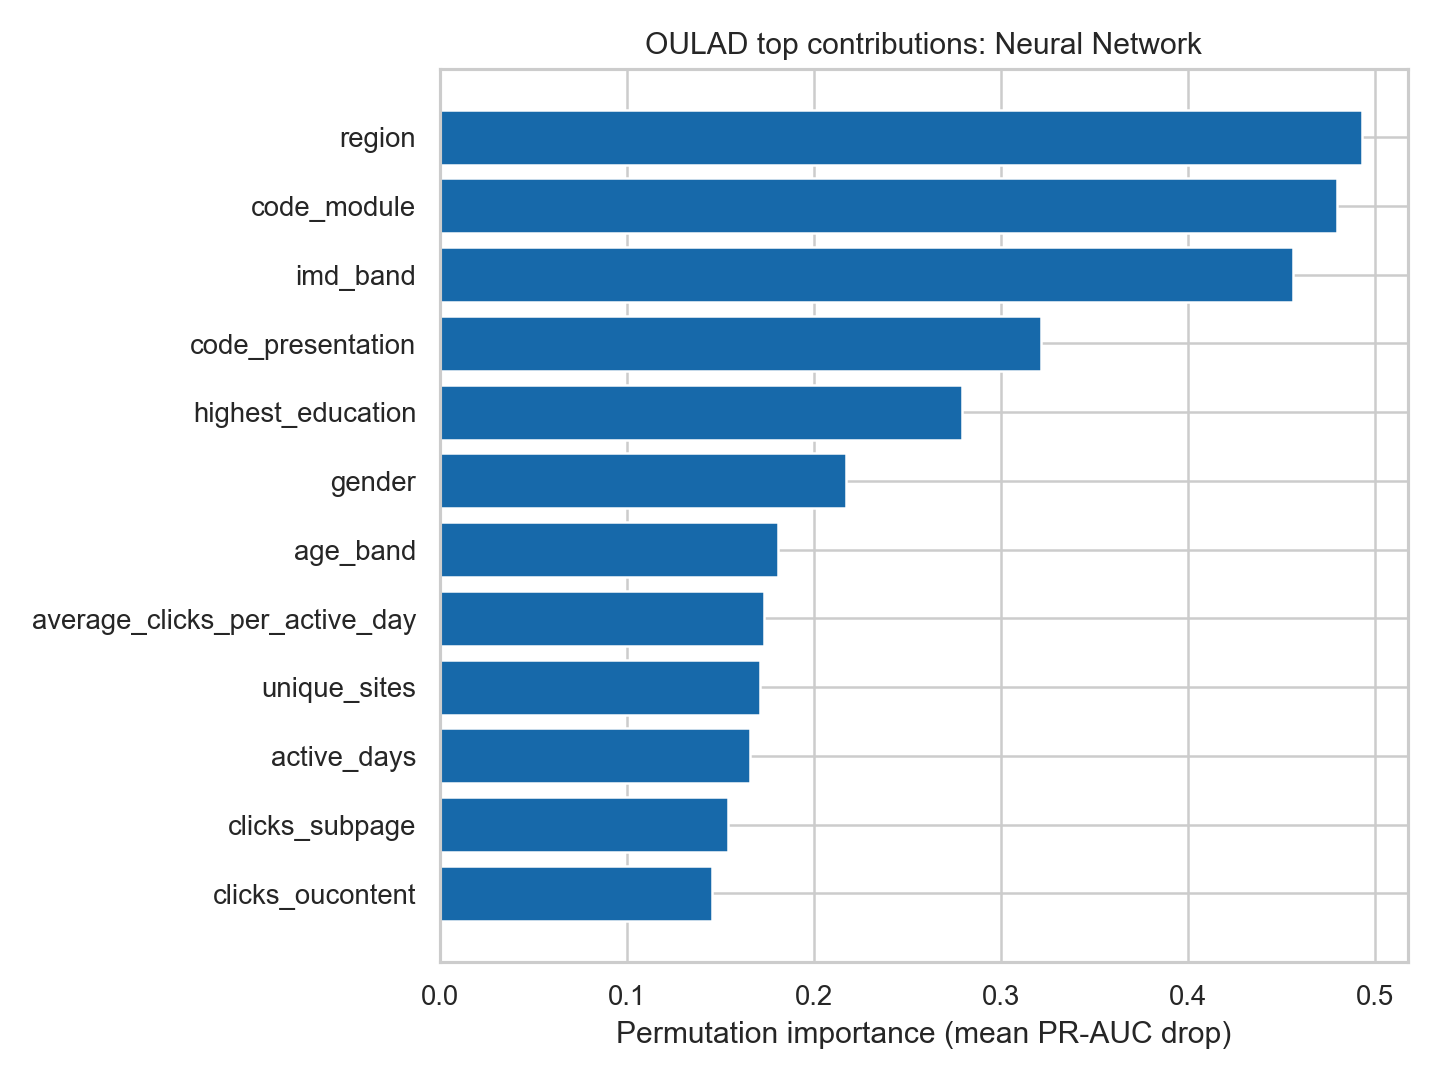
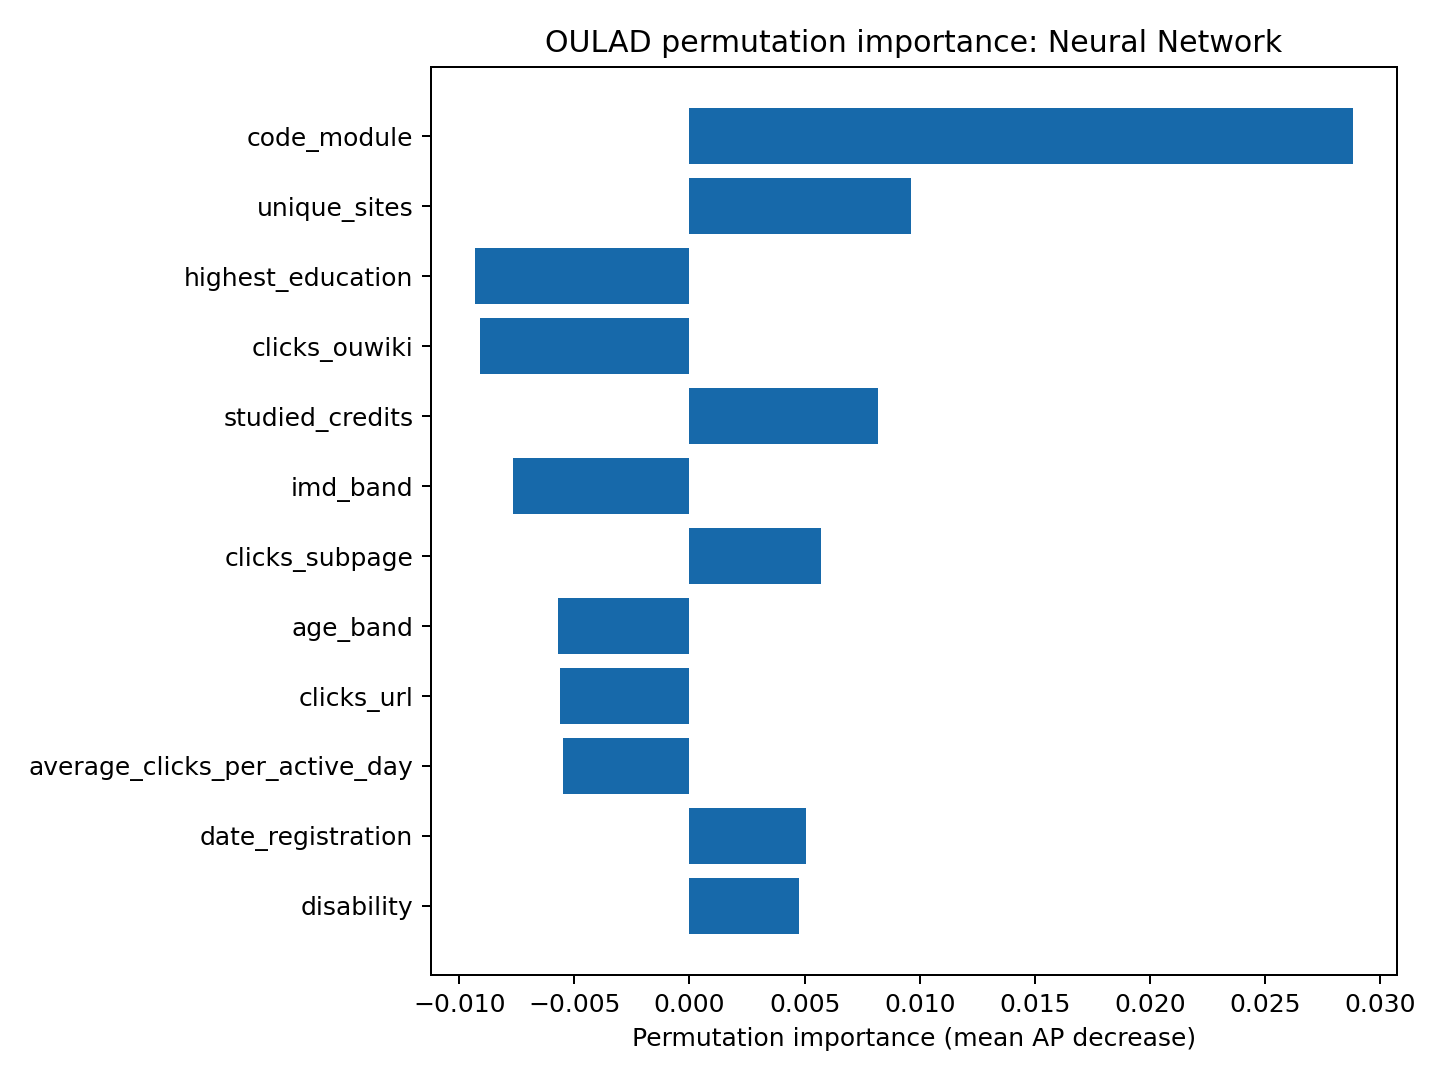
Fix minor comments

diff --git a/src/modeling.py b/src/modeling.py
@@ -1,5 +1,3 @@
-"""Reusable baseline modelling and evaluation functions."""
-
 from __future__ import annotations
 
 from pathlib import Path
@@ -29,7 +27,6 @@ from sklearn.preprocessing import OneHotEncoder, StandardScaler
 def make_preprocessor(
     categorical_columns: list[str], numeric_columns: list[str]
 ) -> ColumnTransformer:
-    """Impute and encode categoricals; impute and standardise numerics."""
     categorical = Pipeline(
         steps=[
             ("impute", SimpleImputer(strategy="most_frequent")),
@@ -52,10 +49,9 @@ def make_preprocessor(
 
 
 class BalancedMLPClassifier(MLPClassifier):
-    """Small neural net. sklearn MLP has no class_weight; oversample the minority class."""
-
+    # MLP has no class_weight, so just oversample the minority class
     def fit(self, X, y, sample_weight=None):
-        # Do not pass sample_weight: older sklearn MLP.fit() rejects it.
+        # don't pass sample_weight — older sklearn MLP rejects it
         X_arr = np.asarray(X)
         y_arr = np.asarray(y).ravel()
         classes, counts = np.unique(y_arr, return_counts=True)
@@ -78,12 +74,6 @@ class BalancedMLPClassifier(MLPClassifier):
 def make_models(
     categorical_columns: list[str], numeric_columns: list[str]
 ) -> dict[str, Pipeline]:
-    """Return two baseline pipelines with the same ColumnTransformer.
-
-    Logistic Regression is the linear, interpretable baseline. The second model is
-    a small neural network so at least one algorithm differs from typical
-    Practical Data Science tree / kNN work.
-    """
     shared_preprocess = make_preprocessor(categorical_columns, numeric_columns)
     return {
         "Logistic Regression": Pipeline(
@@ -103,7 +93,7 @@ def make_models(
                     "preprocess",
                     make_preprocessor(categorical_columns, numeric_columns),
                 ),
-                # One-hot columns are 0/1; scale them too because MLP is scale-sensitive.
+                # MLP cares about scale, even for 0/1 dummies
                 ("scale_all", StandardScaler(with_mean=False)),
                 (
                     "model",
@@ -129,7 +119,6 @@ def metrics_at_threshold(
     probabilities: np.ndarray,
     threshold: float = 0.5,
 ) -> dict[str, float]:
-    """Compute classification metrics at a fixed probability threshold."""
     predictions = (probabilities >= threshold).astype(int)
     return {
         "threshold": float(threshold),
@@ -137,6 +126,7 @@ def metrics_at_threshold(
         "precision": precision_score(y_true, predictions, zero_division=0),
         "recall": recall_score(y_true, predictions, zero_division=0),
         "f1": f1_score(y_true, predictions, zero_division=0),
+        # this is AP, not trapezoidal PR-AUC
         "pr_auc_average_precision": average_precision_score(y_true, probabilities),
         "roc_auc": roc_auc_score(y_true, probabilities),
     }
@@ -150,11 +140,6 @@ def evaluate_models(
     y_test: pd.Series,
     thresholds: dict[str, float] | None = None,
 ) -> tuple[pd.DataFrame, dict[str, Pipeline], dict[str, list[list[int]]]]:
-    """Fit models and evaluate them on the test set.
-
-    Thresholds are optional. When omitted, every model uses 0.5. Ranking metrics
-    (PR-AUC, ROC-AUC) do not depend on the threshold.
-    """
     thresholds = thresholds or {}
     rows = []
     fitted = {}
@@ -178,7 +163,6 @@ def threshold_scan(
     probabilities: np.ndarray,
     thresholds: np.ndarray | None = None,
 ) -> pd.DataFrame:
-    """Evaluate precision, recall, and F1 across candidate thresholds."""
     if thresholds is None:
         thresholds = np.linspace(0.05, 0.95, 37)
     rows = [
@@ -193,14 +177,12 @@ def tune_threshold_for_f1(
     probabilities: np.ndarray,
     thresholds: np.ndarray | None = None,
 ) -> tuple[float, pd.DataFrame]:
-    """Select the threshold that maximises F1 on a validation set only."""
     scan = threshold_scan(y_true, probabilities, thresholds=thresholds)
     best_row = scan.loc[scan["f1"].idxmax()]
     return float(best_row["threshold"]), scan
 
 
 def get_feature_names(pipeline: Pipeline) -> np.ndarray:
-    """Return transformed feature names from a fitted preprocessing pipeline."""
     return pipeline.named_steps["preprocess"].get_feature_names_out()
 
 
@@ -210,11 +192,8 @@ def extract_model_insights(
     x: pd.DataFrame | None = None,
     y: pd.Series | np.ndarray | None = None,
 ) -> pd.DataFrame:
-    """Return the strongest model contributions.
-
-    Logistic Regression: signed coefficients (positive = higher predicted risk).
-    Neural Network: permutation importance on original columns (PR-AUC drop).
-    """
+    # LR: coefficients. NN: permutation importance on the data you pass in
+    # (use the test set, not train)
     model = pipeline.named_steps["model"]
 
     if hasattr(model, "coef_"):
@@ -244,7 +223,7 @@ def extract_model_insights(
         x_used = x
         y_used = y
         if len(x_used) > 2_500:
-            x_used = x_used.sample(n=2_500, random_state=42)
+            x_used = x_used.sample(n=2_500, random_state=42)  # otherwise this is slow
             y_used = y_used.loc[x_used.index]
         result = permutation_importance(
             pipeline,
@@ -260,7 +239,7 @@ def extract_model_insights(
                 "feature": list(x_used.columns),
                 "value": result.importances_mean,
                 "abs_value": np.abs(result.importances_mean),
-                "interpretation": "PR-AUC drop when the feature is shuffled",
+                "interpretation": "mean AP decrease when the feature is shuffled",
                 "source": "permutation_importance",
             }
         )
@@ -274,8 +253,10 @@ def plot_top_features(
     output_path: Path,
     show: bool = False,
 ) -> None:
-    """Save a horizontal bar chart of the strongest model contributions."""
-    plot_frame = insights.sort_values("abs_value", ascending=True)
+    plot_frame = insights.sort_values("abs_value", ascending=True).copy()
+    plot_frame["feature"] = plot_frame["feature"].str.replace(
+        "enrollment", "enrolment", regex=False
+    )
     fig, ax = plt.subplots(figsize=(8, 6))
     colors = (
         ["#c0392b" if value >= 0 else "#1f6f8b" for value in plot_frame["value"]]
@@ -286,7 +267,7 @@ def plot_top_features(
     ax.set_xlabel(
         "Coefficient (standardised / one-hot space)"
         if insights["source"].iloc[0] == "logistic_coefficient"
-        else "Permutation importance (mean PR-AUC drop)"
+        else "Permutation importance (mean AP decrease)"
     )
     ax.set_ylabel("")
     ax.set_title(title)
@@ -305,7 +286,6 @@ def plot_threshold_curves(
     selected_threshold: float | None = None,
     show: bool = False,
 ) -> None:
-    """Save precision / recall / F1 against candidate thresholds."""
     fig, ax = plt.subplots(figsize=(7.5, 4.8))
     ax.plot(scan["threshold"], scan["precision"], label="Precision")
     ax.plot(scan["threshold"], scan["recall"], label="Recall")
@@ -338,7 +318,6 @@ def save_confusion_matrices(
     suffix: str = "",
     show: bool = False,
 ) -> None:
-    """Save a predicted-vs-actual heatmap for each model's confusion matrix."""
     output_dir.mkdir(parents=True, exist_ok=True)
     for model_name, matrix in matrices.items():
         fig, ax = plt.subplots(figsize=(5.5, 4.5))

diff --git a/src/data_prep.py b/src/data_prep.py
@@ -1,5 +1,3 @@
-"""Leakage-safe preparation of the two educational datasets."""
-
 from __future__ import annotations
 
 import argparse
@@ -17,25 +15,21 @@ OULAD_ZIP_NAME = "open+university+learning+analytics+dataset.zip"
 
 
 def _clean_column_name(name: str) -> str:
-    """Convert source column labels to stable snake_case names."""
-    name = name.strip().replace("Nacionality", "Nationality")
+    name = name.strip().replace("Nacionality", "Nationality")  # typo in the UCI file
     name = re.sub(r"[^0-9A-Za-z]+", "_", name).strip("_")
     return name.lower()
 
 
 def prepare_uci(uci_zip: Path) -> tuple[pd.DataFrame, list[str], list[str]]:
-    """Build the enrolment-time UCI modelling table.
-
-    Students with the unresolved Enrolled outcome are removed. Semester-result
-    variables are deliberately excluded because they occur after enrolment.
-    """
     with zipfile.ZipFile(uci_zip) as archive:
         frame = pd.read_csv(archive.open("data.csv"), sep=";")
 
     frame.columns = [_clean_column_name(col) for col in frame.columns]
+    # still enrolled = outcome unknown, so drop those
     frame = frame.loc[frame["target"].isin(["Dropout", "Graduate"])].copy()
     frame["target_dropout"] = (frame["target"] == "Dropout").astype("int8")
 
+    # curricular_units_* are semester results — after enrolment
     leakage_columns = [col for col in frame if col.startswith("curricular_units_")]
     frame = frame.drop(columns=["target", *leakage_columns])
 
@@ -62,7 +56,7 @@ def prepare_uci(uci_zip: Path) -> tuple[pd.DataFrame, list[str], list[str]]:
         "application_order",
         "previous_qualification_grade",
         "admission_grade",
-        "age_at_enrollment",
+        "age_at_enrollment",  # that's the name in the UCI file
         "unemployment_rate",
         "inflation_rate",
         "gdp",
@@ -86,7 +80,7 @@ def _aggregate_oulad_vle(
     end_day: int = 30,
     chunksize: int = 750_000,
 ) -> pd.DataFrame:
-    """Aggregate day-window VLE activity without loading all 10.6M rows at once."""
+    # studentVle is huge (~10m rows), so read it in chunks
     parts: list[pd.DataFrame] = []
     usecols = [*KEYS, "id_site", "date", "sum_click"]
 
@@ -134,14 +128,12 @@ def _aggregate_oulad_vle(
     combined = pd.concat(parts, ignore_index=True).fillna(0)
     value_columns = [column for column in combined.columns if column not in KEYS]
 
-    # A student can occur in several chunks. Sum count-like features across
-    # chunks, but reconstruct active-day and unique-site counts exactly below.
+    # same student can show up in more than one chunk
     summed = combined.groupby(KEYS, as_index=False)[
         [c for c in value_columns if c not in {"active_days", "unique_sites"}]
     ].sum()
 
-    # Exact distinct counts are calculated in a second chunked pass using sets.
-    # The selected 31-day window is compact, so these sets remain manageable.
+    # nunique across chunks isn't additive, so redo those with sets
     day_sets: dict[tuple, set] = {}
     site_sets: dict[tuple, set] = {}
     for chunk in pd.read_csv(
@@ -174,7 +166,6 @@ def prepare_oulad(
     start_day: int = 0,
     end_day: int = 30,
 ) -> tuple[pd.DataFrame, list[str], list[str]]:
-    """Build the day-30 OULAD modelling table."""
     with zipfile.ZipFile(oulad_zip) as archive:
         info = pd.read_csv(archive.open("studentInfo.csv"), na_values="?")
         registration = pd.read_csv(
@@ -187,8 +178,8 @@ def prepare_oulad(
 
     cohort = info.merge(registration, on=KEYS, how="inner", validate="one_to_one")
 
-    # At the prediction point, the student must already be registered and must
-    # not already have withdrawn. This prevents temporal target leakage.
+    # prediction point = end of day 30, so they have to be registered by then
+    # and not already withdrawn
     cohort = cohort.loc[
         cohort["date_registration"].notna()
         & (cohort["date_registration"] <= end_day)
@@ -244,7 +235,6 @@ def prepare_oulad(
 def build_processed_tables(
     uci_zip: Path, oulad_zip: Path, output_dir: Path
 ) -> tuple[pd.DataFrame, pd.DataFrame]:
-    """Prepare and save both modelling tables."""
     output_dir.mkdir(parents=True, exist_ok=True)
     uci, _, _ = prepare_uci(uci_zip)
     oulad, _, _ = prepare_oulad(oulad_zip)
@@ -254,7 +244,7 @@ def build_processed_tables(
 
 
 def main() -> None:
-    parser = argparse.ArgumentParser(description=__doc__)
+    parser = argparse.ArgumentParser(description="Build the UCI and OULAD modelling tables.")
     parser.add_argument("--uci-zip", type=Path, required=True)
     parser.add_argument("--oulad-zip", type=Path, required=True)
     parser.add_argument("--output-dir", type=Path, default=Path("data/processed"))
@@ -273,4 +263,3 @@ def main() -> None:
 
 if __name__ == "__main__":
     main()
-
